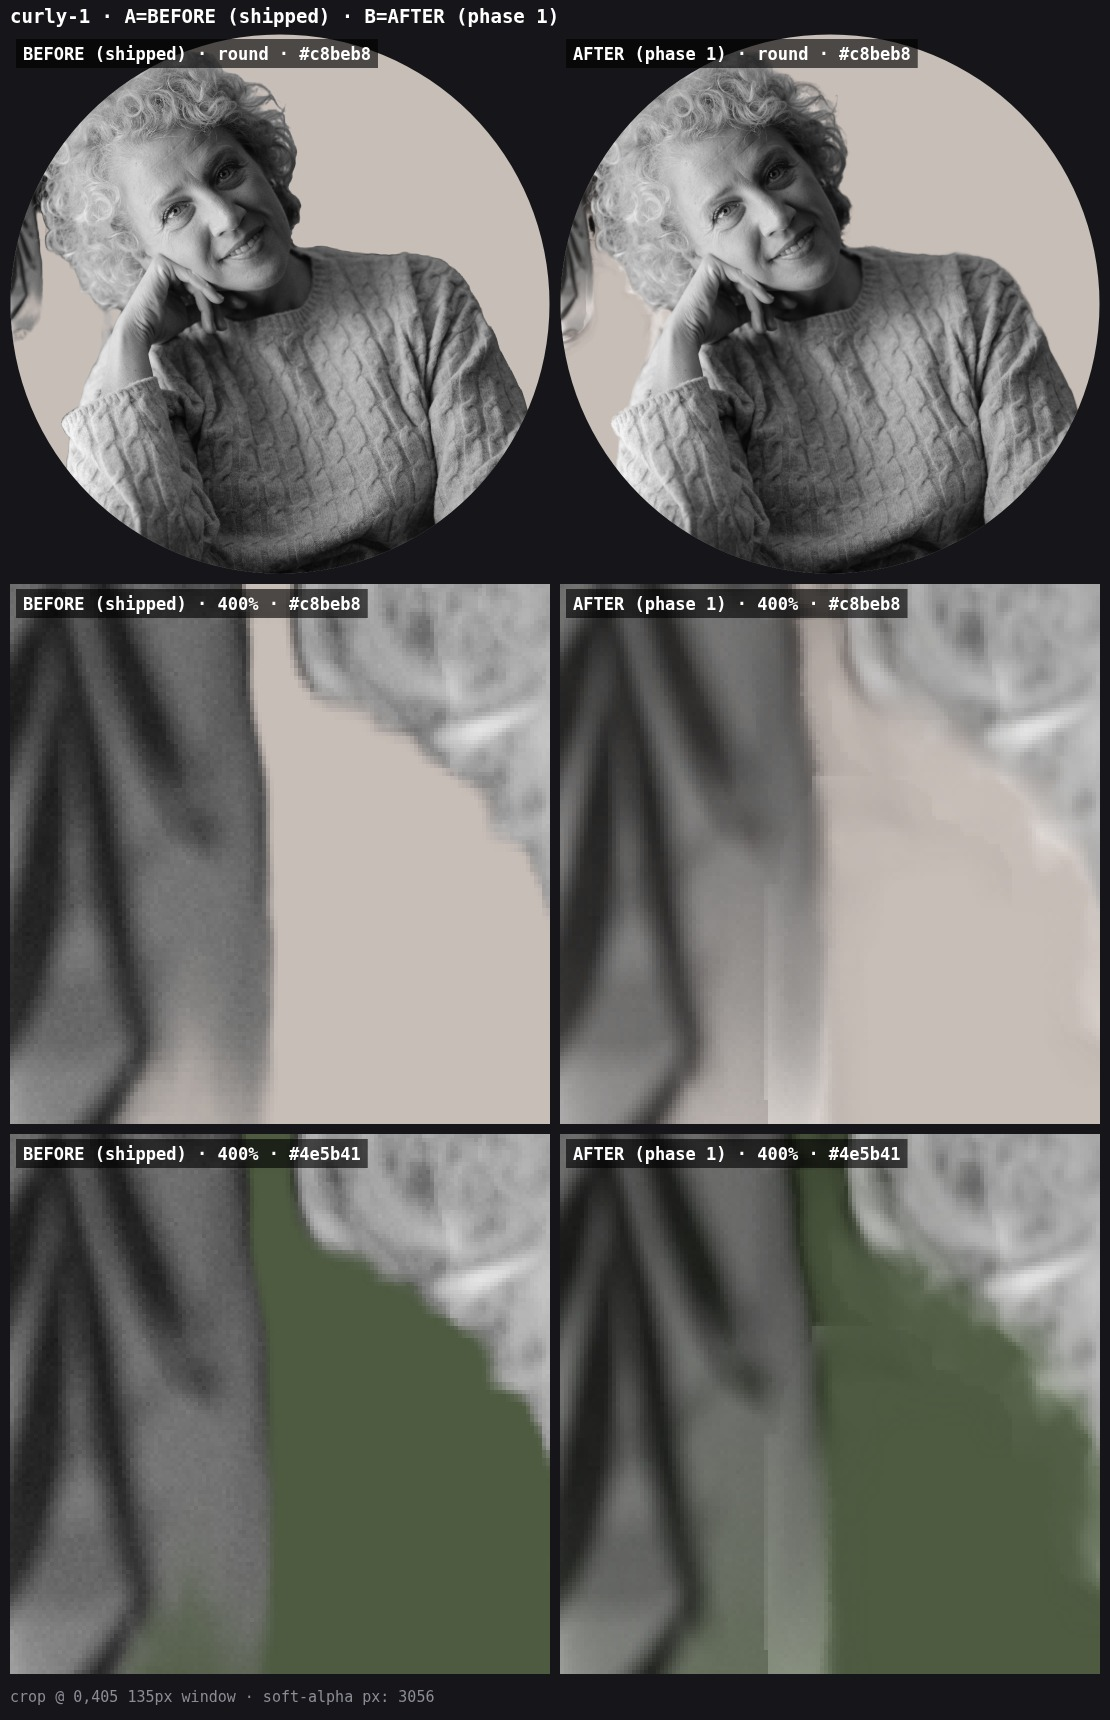
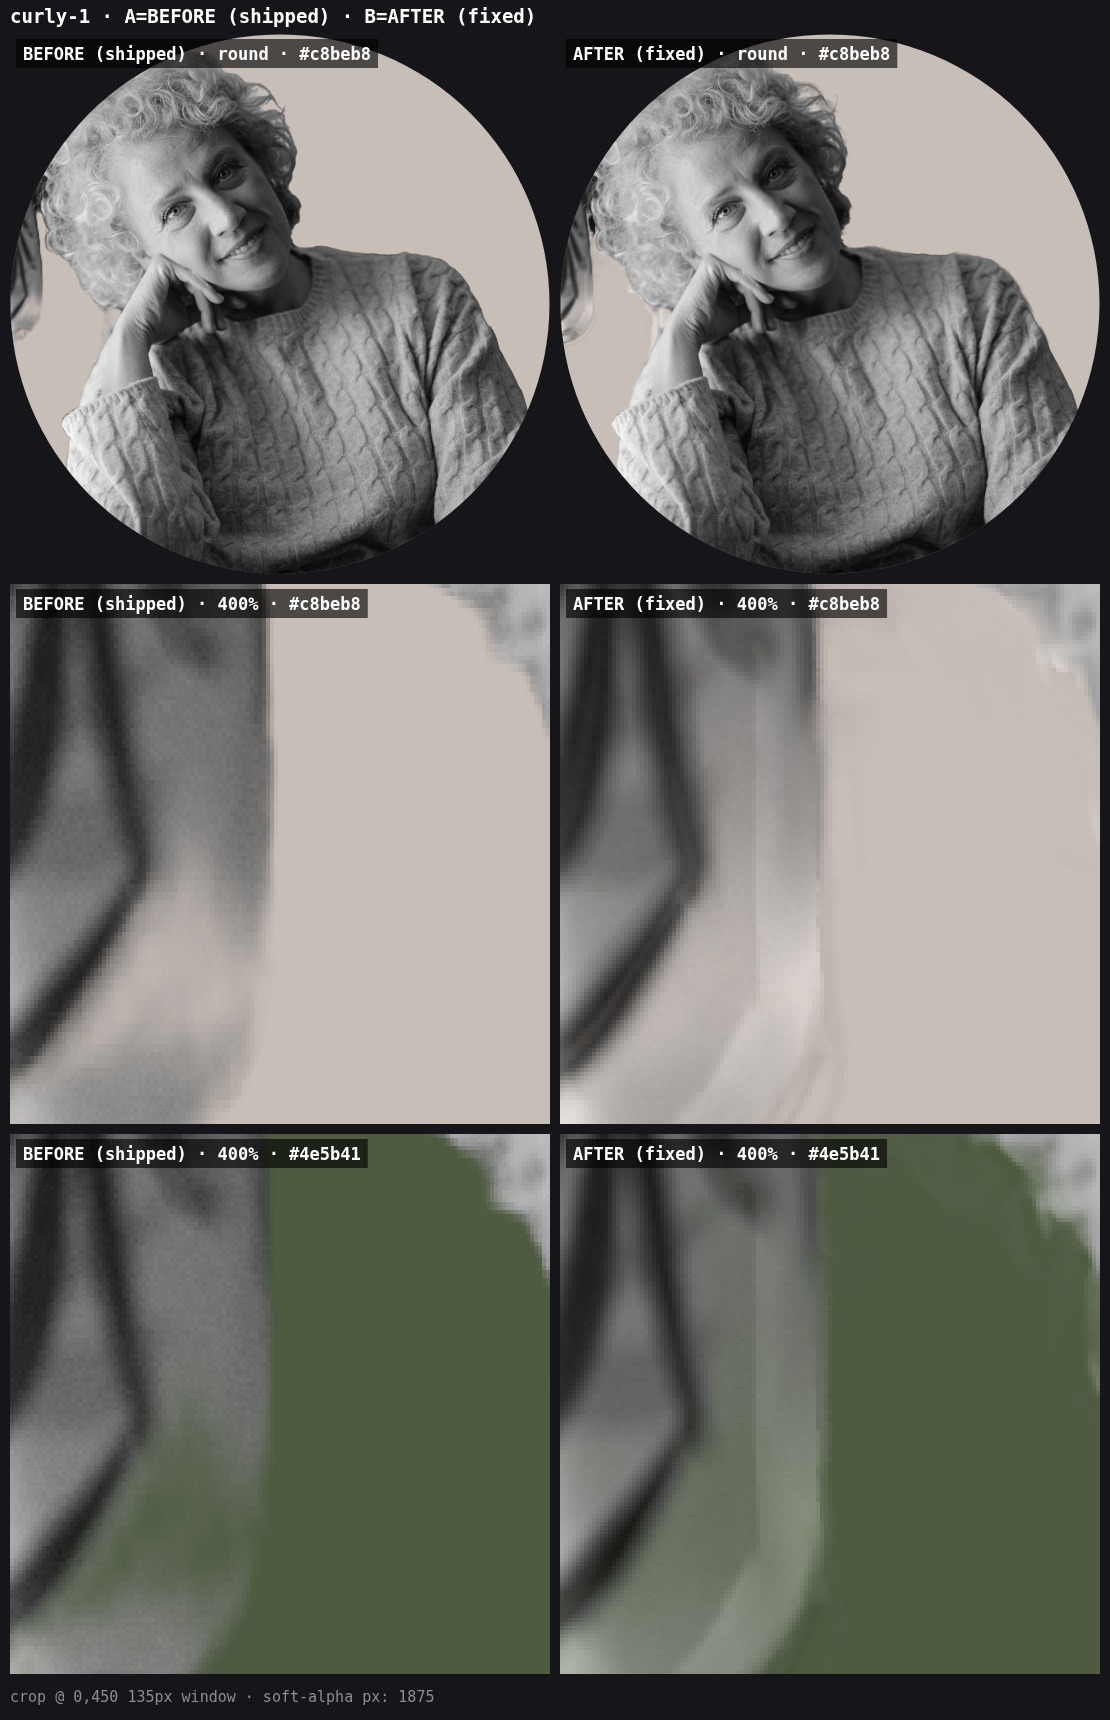
profile-pic: fix the seam and the halo Casanova found
Two fixes to the Phase 1 pipeline, both against his 2026-09-14 review on #41.

THE SEAM — he was right that it was a band-boundary artifact, not a parameter.

cbLocalColour estimated the local background at two radii and picked one per pixel
with a hard branch: if (tightSupport > 1e-3) use tight, else if wide, else global. A
box filter's level sets are axis-aligned rectangles, so "which scale won" flipped
along a rectangular contour and left straight seams inside the feathered band.
Isolated it by ablation: the seams vanish with decontaminate:false, survive
bleed:false, and vanish again at decontamRadius:40 (where the branch stops flipping
locally) — in seam-root-cause.jpg. Replaced the branch with a continuous blend: each
scale's estimate is weighted by a smoothstep of its own support, local degrading to
regional degrading to global, with no discontinuity anywhere.

THE HALO — modulated by edge coherence, not gradient magnitude.

Keeping the full soft band everywhere is right for hair and defocus and wrong for an
in-focus edge, which reads as a glow rim. Gradient magnitude can't separate them —
hair is full of it. Gradient direction can: a real edge pushes the same way across a
neighbourhood so the mean gradient vector stays long, while hair's strands alternate
and cancel it. Alpha gets a contrast gain proportional to that coherence, so a jacket
shoulder tightens toward binary and flyaway strands are left alone.

Soft-alpha pixels at 1080, shipped / phase 1 / now:
[…]

diff --git a/tools/profile-pic/index.html b/tools/profile-pic/index.html
@@ -873,6 +873,9 @@ const CB_CUTOUT_DEFAULTS = {
   refine:           true,   // guided-filter the alpha against the image
   refineRadius:     0,      // 0 = auto from image size
   refineEps:        1e-4,
+  edgeSharpen:      true,   // pull alpha toward binary where the IMAGE has a real edge
+  edgeRef:          0.07,   // mean-gradient magnitude that counts as a confident edge
+  edgeGain:         3.5,    // contrast gain on alpha at a fully confident edge
   decontaminate:    true,
   decontamRadius:   0,      // 0 = auto
   decontamMinAlpha: 0.05,   // below this, trust the neighbourhood foreground colour
@@ -1008,34 +1011,43 @@ function cbGuidedFilter(guide, p, w, h, r, eps, out) {
 }
 
 // ── weighted local colour average: mean of pixels whose weight is 1 ──
-// Returns {r,g,b,support} planes. Two radii: tight first, wide as fallback.
+// Two scales, blended CONTINUOUSLY by how much support each has. The obvious
+// implementation picks one scale per pixel with an if — and that is a bug, because a
+// box filter's level sets are axis-aligned rectangles, so "which scale won" flips
+// along a rectangular contour and leaves straight seams inside the feathered band.
+// Blending by confidence keeps the estimate continuous everywhere.
 function cbLocalColour(rgb, weight, w, h, r1, r2) {
   const n = w * h;
-  const acc = [new Float32Array(n), new Float32Array(n), new Float32Array(n)];
   const tmp = new Float32Array(n);
-  const out = [new Float32Array(n), new Float32Array(n), new Float32Array(n)];
-  const outW = new Float32Array(n);
-  const wide = [new Float32Array(n), new Float32Array(n), new Float32Array(n)];
-  const wideW = new Float32Array(n);
+  const tight = [new Float32Array(n), new Float32Array(n), new Float32Array(n)];
+  const wide  = [new Float32Array(n), new Float32Array(n), new Float32Array(n)];
+  const tightW = new Float32Array(n), wideW = new Float32Array(n);
   for (let c = 0; c < 3; c++) {
     for (let i = 0; i < n; i++) tmp[i] = rgb[i * 4 + c] * weight[i];
-    cbBoxBlur(tmp, w, h, r1, acc[c]);
+    cbBoxBlur(tmp, w, h, r1, tight[c]);
     cbBoxBlur(tmp, w, h, r2, wide[c]);
   }
-  cbBoxBlur(weight, w, h, r1, outW);
+  cbBoxBlur(weight, w, h, r1, tightW);
   cbBoxBlur(weight, w, h, r2, wideW);
+
   let gr = 0, gg = 0, gb = 0, gw = 0;
   for (let i = 0; i < n; i++) if (weight[i] > 0) { gr += rgb[i*4]; gg += rgb[i*4+1]; gb += rgb[i*4+2]; gw++; }
   if (gw > 0) { gr /= gw; gg /= gw; gb /= gw; } else { gr = gg = gb = 128; }
+
+  // Confidence ramps in over a support floor rather than crossing a threshold.
+  const FLOOR = 0.02;
+  const out = [new Float32Array(n), new Float32Array(n), new Float32Array(n)];
   for (let i = 0; i < n; i++) {
-    if (outW[i] > 1e-3) {
-      const iw = 1 / outW[i];
-      out[0][i] = acc[0][i] * iw; out[1][i] = acc[1][i] * iw; out[2][i] = acc[2][i] * iw;
-    } else if (wideW[i] > 1e-4) {
-      const iw = 1 / wideW[i];
-      out[0][i] = wide[0][i] * iw; out[1][i] = wide[1][i] * iw; out[2][i] = wide[2][i] * iw;
-    } else {
-      out[0][i] = gr; out[1][i] = gg; out[2][i] = gb;
+    const tw = tightW[i], ww = wideW[i];
+    let ct = tw / FLOOR; ct = ct > 1 ? 1 : ct; ct = ct * ct * (3 - 2 * ct);
+    let cw = ww / FLOOR; cw = cw > 1 ? 1 : cw; cw = cw * cw * (3 - 2 * cw);
+    const itw = tw > 1e-6 ? 1 / tw : 0;
+    const iww = ww > 1e-6 ? 1 / ww : 0;
+    for (let c = 0; c < 3; c++) {
+      const vTight = tight[c][i] * itw;
+      const vWide  = wide[c][i]  * iww;
+      const regional = vWide * cw + (c === 0 ? gr : c === 1 ? gg : gb) * (1 - cw);
+      out[c][i] = vTight * ct + regional * (1 - ct);
     }
   }
   return out;
@@ -1084,14 +1096,16 @@ function cbCutout(img, maskData, mW, mH, userOpts) {
     }
   }
 
+  const guide = new Float32Array(w * h);
+  for (let i = 0; i < w * h; i++) {
+    guide[i] = (0.2126 * px[i*4] + 0.7152 * px[i*4+1] + 0.0722 * px[i*4+2]) / 255;
+  }
+  const baseR = o.refineRadius > 0 ? o.refineRadius
+              : Math.max(2, Math.round(Math.min(w, h) / 400));
+
   // 4 ── refine against the image, inside the transition band only
   if (o.refine) {
-    const guide = new Float32Array(w * h);
-    for (let i = 0; i < w * h; i++) {
-      guide[i] = (0.2126 * px[i*4] + 0.7152 * px[i*4+1] + 0.0722 * px[i*4+2]) / 255;
-    }
-    const r = o.refineRadius > 0 ? o.refineRadius
-            : Math.max(2, Math.round(Math.min(w, h) / 400));
+    const r = baseR;
     const q = new Float32Array(w * h);
     cbGuidedFilter(guide, alpha, w, h, r, o.refineEps, q);
     const band = new Float32Array(w * h);
@@ -1101,6 +1115,38 @@ function cbCutout(img, maskData, mW, mH, userOpts) {
     for (let i = 0; i < w * h; i++) {
       const t = Math.min(1, bandW[i] * 4);
       const v = alpha[i] * (1 - t) + q[i] * t;
+      alpha[i] = v < 0 ? 0 : v > 1 ? 1 : v;
+    }
+  }
+
+  // 4b ── crisp where the image is crisp.
+  // Keeping the full soft band everywhere is right for hair and defocus and wrong for an
+  // in-focus sleeve, which the model resolves nearly binary and which reads as a glow rim
+  // if it ships as a ramp. Gradient MAGNITUDE can't tell the two apart — hair is full of
+  // it. Gradient DIRECTION can: a real edge pushes the same way over a neighbourhood, so
+  // the mean gradient vector stays long, while hair's strands alternate and cancel it.
+  if (o.edgeSharpen && o.edgeGain > 1) {
+    const n = w * h;
+    const gx = new Float32Array(n), gy = new Float32Array(n);
+    for (let y = 1; y < h - 1; y++) {
+      for (let x = 1; x < w - 1; x++) {
+        const i = y * w + x;
+        gx[i] = (guide[i + 1] - guide[i - 1]) * 0.5;
+        gy[i] = (guide[i + w] - guide[i - w]) * 0.5;
+      }
+    }
+    const mx = new Float32Array(n), my = new Float32Array(n);
+    cbBoxBlur(gx, w, h, baseR, mx);
+    cbBoxBlur(gy, w, h, baseR, my);
+    const ref = Math.max(1e-6, o.edgeRef);
+    for (let i = 0; i < n; i++) {
+      const a = alpha[i];
+      if (a <= 0.002 || a >= 0.998) continue;
+      let conf = Math.hypot(mx[i], my[i]) / ref;
+      if (conf > 1) conf = 1;
+      conf = conf * conf * (3 - 2 * conf);
+      const gain = 1 + conf * (o.edgeGain - 1);
+      const v = 0.5 + (a - 0.5) * gain;
       alpha[i] = v < 0 ? 0 : v > 1 ? 1 : v;
     }
   }
